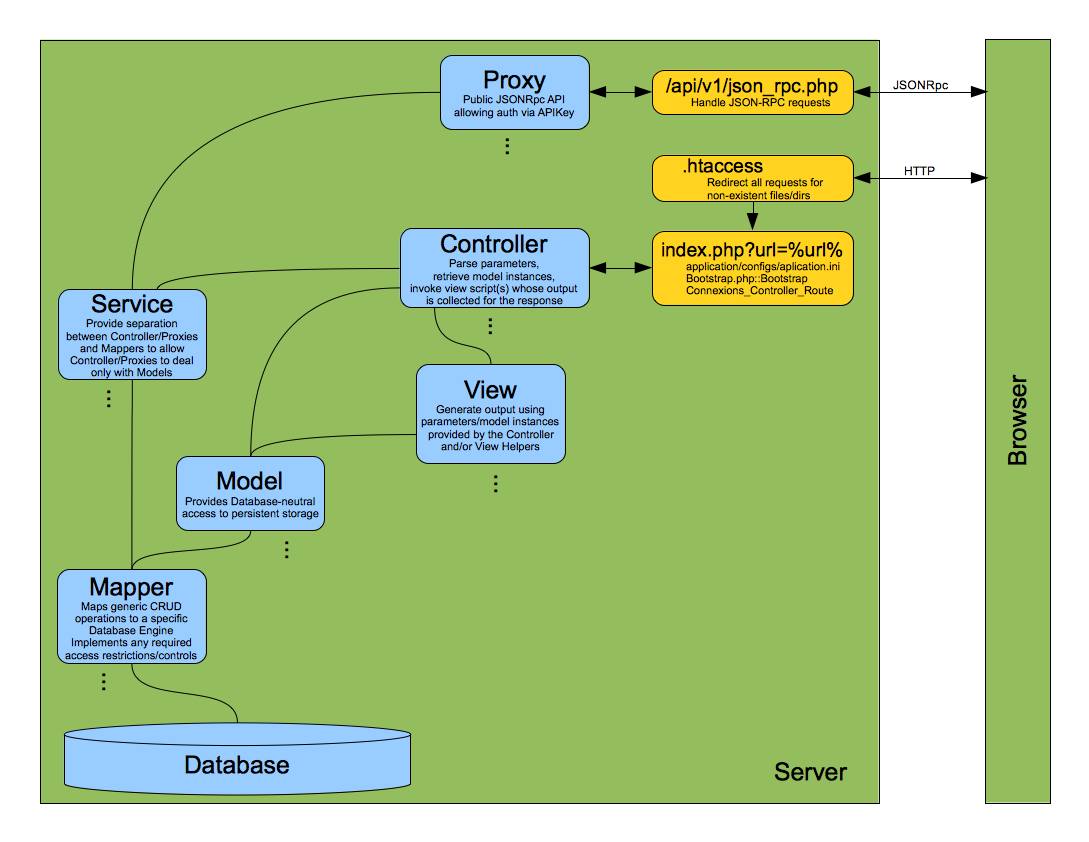
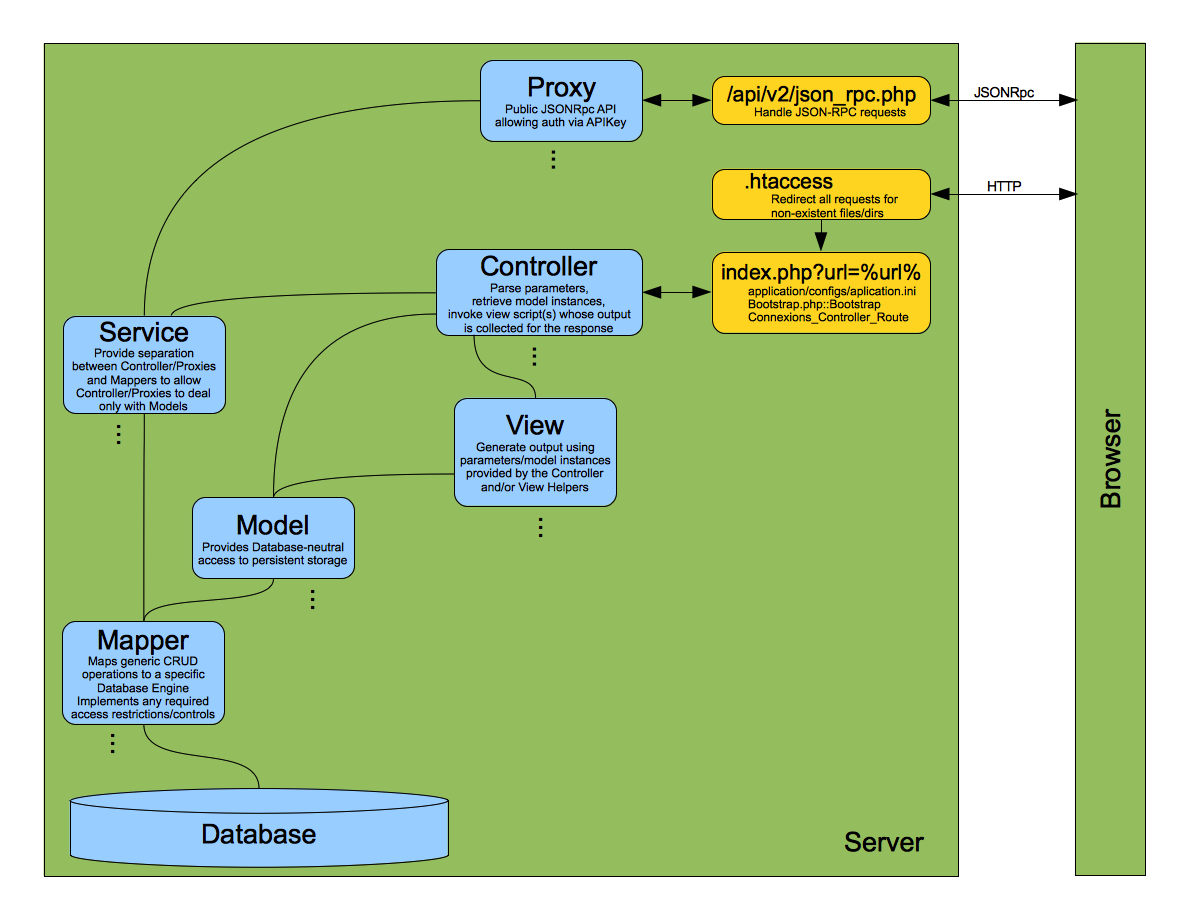
Renamed public/api/v1 to public/api/v2 since this really is the second version of the JSON API.  Add a .htaccess and index.php to public/api as a first step at backwards compatability with the original api.  Currently, it's just a stub.

diff --git a/public/test-ui.tagInput-full.html b/public/test-ui.tagInput-full.html
@@ -22,7 +22,7 @@
   var $tags, $submit, $output;
   var jsonRpc   = {
     version:    '2.0',
-    target:     '/connexions/api/v1/json-rpc.php',
+    target:     '/connexions/api/v2/json-rpc.php',
     transport:  'POST',
     method:     'bookmark.autocompleteTag'
   };

diff --git a/library/Connexions/Json/Server/Request/Http.php b/library/Connexions/Json/Server/Request/Http.php
@@ -5,13 +5,13 @@
  *      - records the request method and URI;
  *      - allows a JSON-encoded string to be passed in a GET request as the
  *        Query, e.g.:
- *          http://localhost/api/v1/json-rpc?{"version":2,"method": ...}
+ *          http://localhost/api/v2/json-rpc?{"version":2,"method": ...}
  *
  *      - allows general, non-JSON query parameters for those simple cases
  *        where the Json Server accepts a GET request with Query parameter(s)
  *        used to determine the response.  For example, a Json server that can
  *        return the API when requested:
- *          http://localhost/api/v1/json-rpc?getApi=1
+ *          http://localhost/api/v2/json-rpc?getApi=1
  *
  */
 class Connexions_Json_Server_Request_Http extends Zend_Json_Server_Request

diff --git a/public/api/v2/index.php b/public/api/v2/index.php
@@ -274,7 +274,7 @@ $baseUrl = $config->urls->base;
              *                            transport:    'POST',
              *                            contentType:  'application/json',
              *                            SMDVersion:   '2.0',
-             *                            target:       '/api/v1/json-rpc',
+             *                            target:       '/api/v2/json-rpc',
              *                            services:     [
              *                              % name %: % service Description %,
              *                              ...

diff --git a/public/api/v2/json-rpc.php b/public/api/v2/json-rpc.php
@@ -37,7 +37,7 @@ if ($req->isGet() && ($req->getParam('serviceDescription')))
     Connexions::log("json-rpc: Handle GET request...");
     // */
 
-    $server->setTarget(Connexions::url('/api/v1/json-rpc'))
+    $server->setTarget(Connexions::url('/api/v2/json-rpc'))
            ->setEnvelope(Zend_Json_Server_Smd::ENV_JSONRPC_2);
 
     /*

diff --git a/public/api/index.php b/public/api/index.php
@@ -1,0 +1,4 @@
+<pre>
+ <h2>_REQUEST</h2>
+ <? print_r($_REQUEST); ?>
+</pre>
